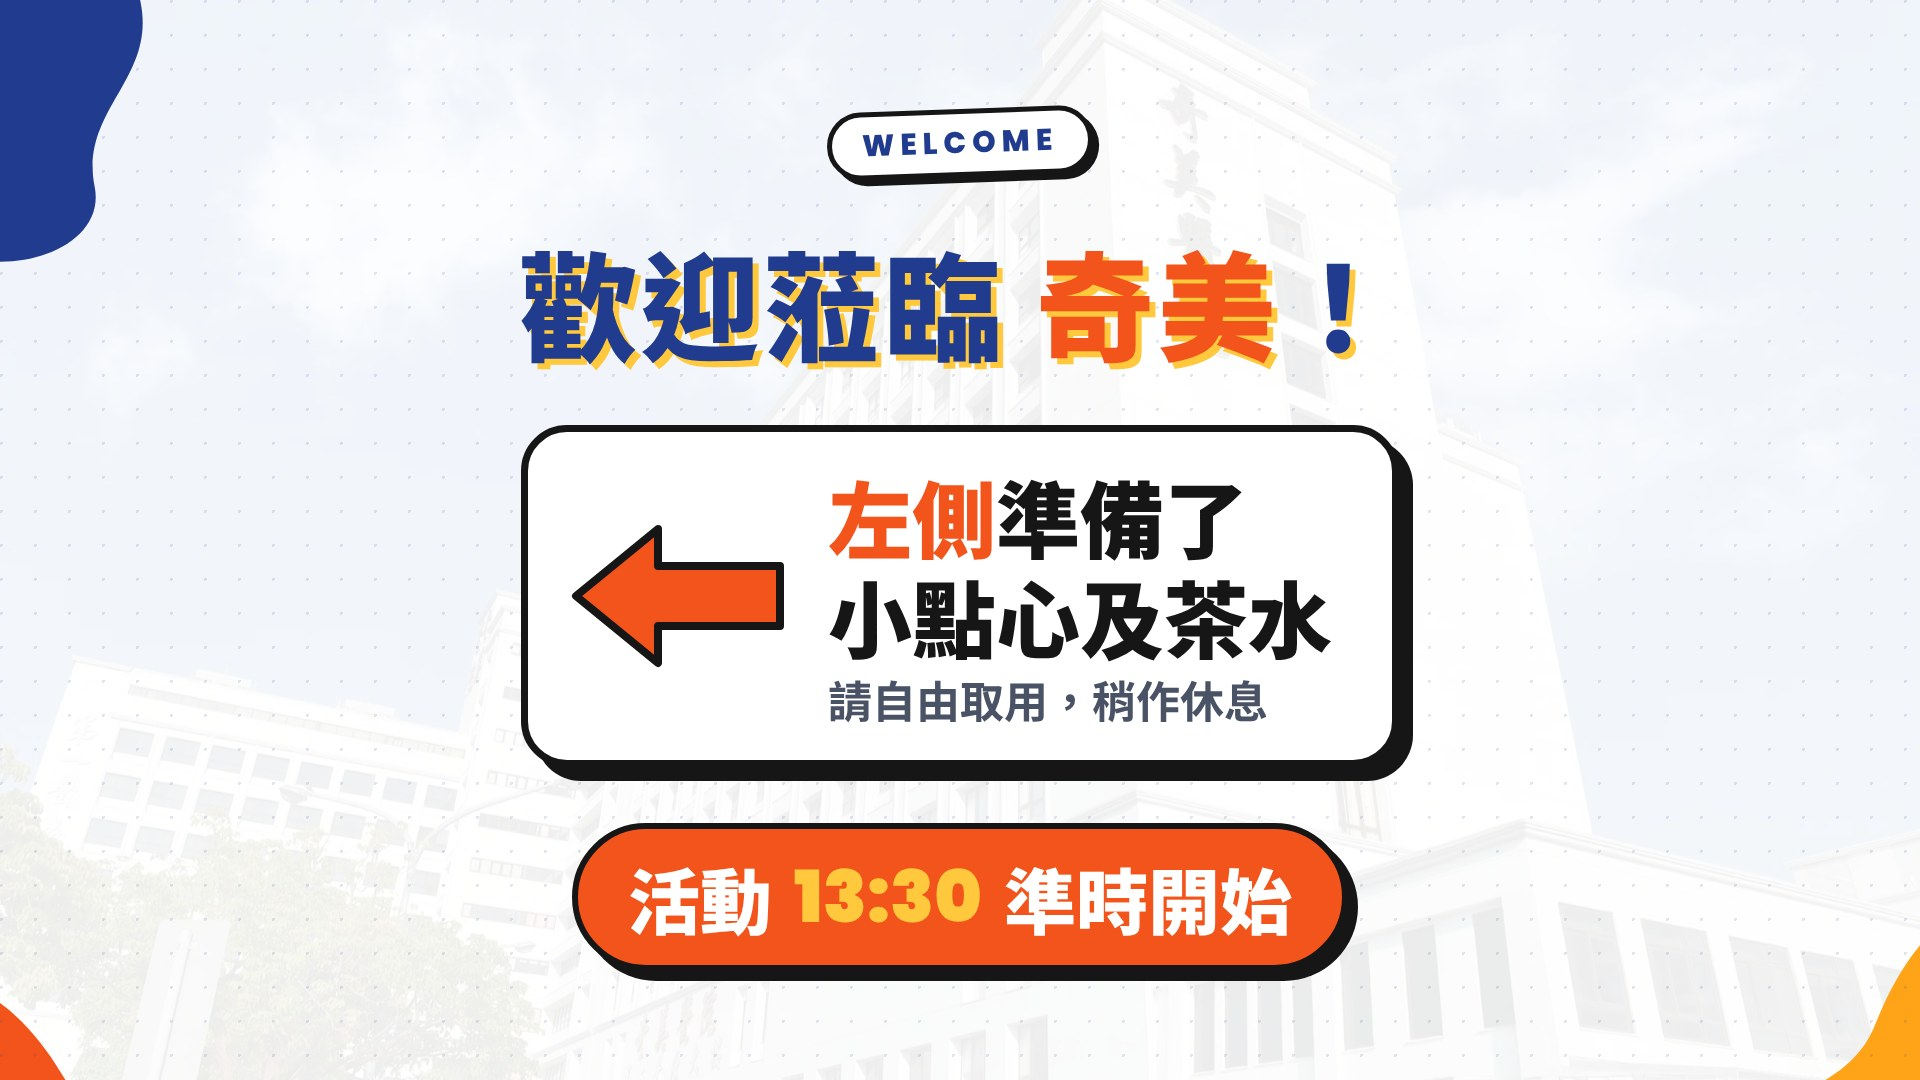
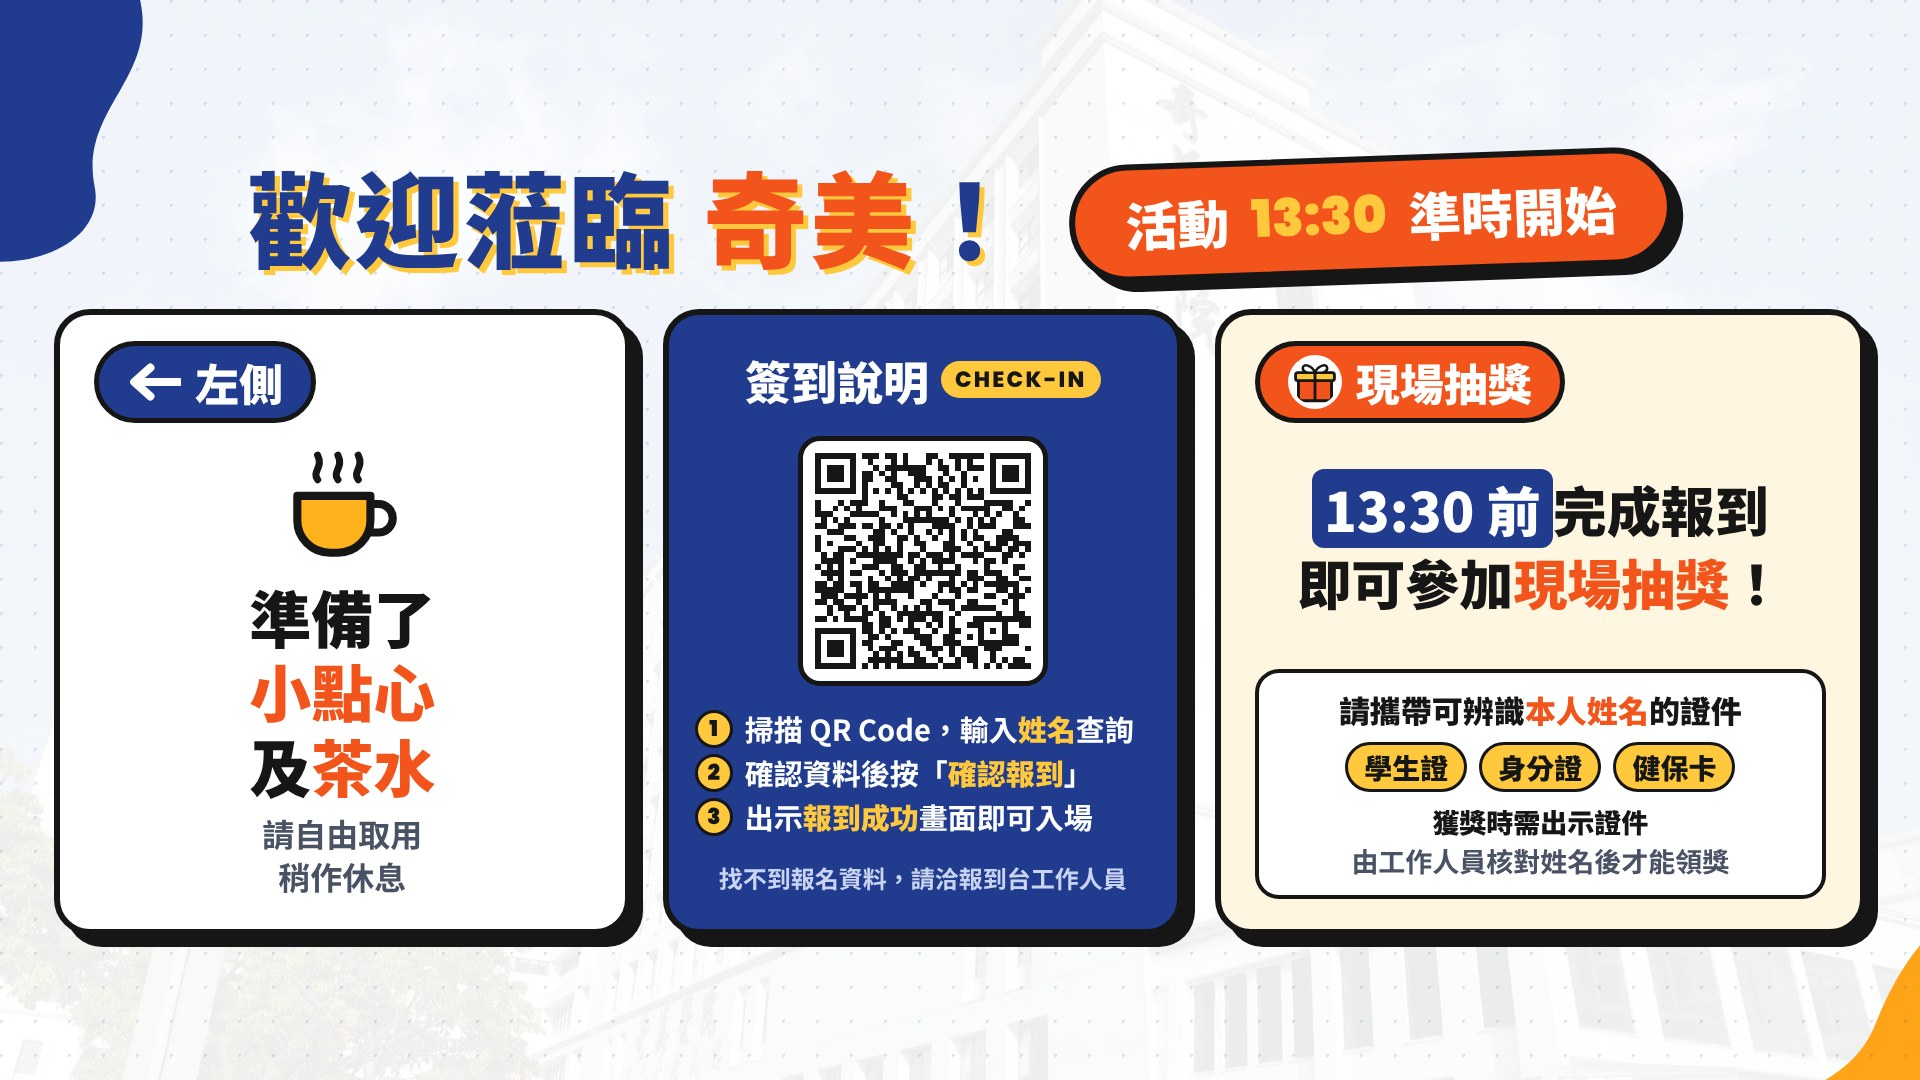
歌詞頁第 1 張圖：加入簽到說明、13:30 前報到可抽獎及證件提醒
Claude-Session: https://claude.ai/code/session_01HH3Uic7B7GKvdUspcu4Pwt

diff --git a/cmh_musiccc/photos/slides.html b/cmh_musiccc/photos/slides.html
@@ -38,14 +38,36 @@ h1 b{font-family:Poppins;font-weight:900}
 .room .no small{font-family:"Noto Sans TC";font-size:.75em;margin-left:2px}
 .room .tag{flex:none;width:30px;height:30px;border-radius:50%;background:var(--orange);border:4px solid var(--ink)}
 /* slide 1 */
-.s1{gap:56px}
-.s1 h1{font-size:118px}
-.s1 .left-card{display:flex;align-items:center;gap:40px;background:#fff;border:7px solid var(--ink);border-radius:46px;box-shadow:14px 14px 0 var(--ink);padding:34px 60px 34px 40px}
-.s1 .big-arrow{width:220px;height:150px;flex:none;animation:none}
-.s1 .left-card p{font-size:84px;font-weight:900;line-height:1.2}
-.s1 .left-card p small{display:block;font-size:44px;color:var(--muted);font-weight:700;margin-top:6px}
-.s1 .left-card p em{font-style:normal;color:var(--red)}
-.s1 .pill{font-size:72px}
+.s1{gap:34px;padding-top:10px}
+.s1-head{display:flex;align-items:center;gap:44px}
+.s1 h1{font-size:104px}
+.s1 .pill{font-size:52px;transform:rotate(-2deg)}
+.s1-row{display:flex;gap:32px;align-items:stretch;padding:0 54px;width:100%}
+.s1 .side{flex:1}
+.snack h3{font-size:44px}
+.snack-body{flex:1;display:flex;flex-direction:column;align-items:center;justify-content:center;text-align:center;gap:10px}
+.snack .cup{width:130px;height:130px}
+.snack-body p{font-size:62px;font-weight:900;line-height:1.2}
+.snack-body p em{font-style:normal;color:var(--red)}
+.snack-body small{font-size:32px;font-weight:700;color:var(--muted);line-height:1.35}
+.checkin{width:560px;justify-content:space-evenly}
+.checkin .help{font-size:24px;font-weight:700;color:#C9D3F2;text-align:center}
+.lottery{justify-content:space-between}
+.checkin .qrbox{width:250px}
+.checkin .steps li{font-size:29px}
+.lottery{flex:1.15!important;background:var(--band)!important}
+.lottery h3{font-size:44px;background:var(--red)!important;color:#fff}
+.lottery h3 svg{width:54px;height:54px;background:#fff;border-radius:50%;padding:4px}
+.lt-main{font-size:54px;font-weight:900;line-height:1.35;text-align:center;margin:auto 0}
+.lt-main b{color:#fff;background:var(--navy);border-radius:12px;padding:0 12px}
+.lt-main em{font-style:normal;color:var(--red)}
+.id{background:#fff;border:4px solid var(--ink);border-radius:24px;padding:14px 18px;text-align:center;display:flex;flex-direction:column;gap:10px}
+.id-h{font-size:31px;font-weight:900}
+.id-h b{color:var(--red)}
+.ids{display:flex;justify-content:center;gap:12px}
+.ids span{font-size:28px;font-weight:900;background:var(--yellow);border:3px solid var(--ink);border-radius:999px;padding:2px 16px}
+.id-n{font-size:27px;font-weight:700;color:var(--muted);line-height:1.45}
+.id-n b{color:var(--ink)}
 /* slide 2 */
 .s2{gap:40px}
 .s2 h1{font-size:120px}
@@ -85,14 +107,39 @@ h1 b{font-family:Poppins;font-weight:900}
 <section class="slide s1" id="s1">
   <svg class="blob bl-tl" viewBox="0 0 300 300"><path fill="#213C8F" d="M40 60c40-50 120-30 130 20s-40 70-30 120-90 70-120 20S0 110 40 60z"/></svg>
   <svg class="blob bl-br" viewBox="0 0 320 300"><path fill="#FFA319" d="M320 80c-60 0-90 40-110 90s-80 40-80 90 50 50 190 40z"/></svg>
-  <svg class="blob bl-bl" viewBox="0 0 320 300"><path fill="#F2541B" d="M0 120c50-30 100 10 130 60s70 50 60 100-160 30-190 20z"/></svg>
-  <p class="kicker">WELCOME</p>
-  <h1>歡迎蒞臨 <em>奇美</em>！</h1>
-  <div class="left-card">
-    <svg class="big-arrow"><use href="#bigL"/></svg>
-    <p><em>左側</em>準備了<br>小點心及茶水<small>請自由取用，稍作休息</small></p>
+  <div class="s1-head">
+    <h1>歡迎蒞臨 <em>奇美</em>！</h1>
+    <div class="pill">活動 <b>13:30</b> 準時開始</div>
   </div>
-  <div class="pill">活動 <b>13:30</b> 準時開始</div>
+  <div class="s1-row">
+    <div class="side snack">
+      <h3><svg><use href="#arL"/></svg>左側</h3>
+      <div class="snack-body">
+        <svg class="cup" viewBox="0 0 64 64"><path d="M10 28h36v12a16 16 0 0 1-16 16h-4a16 16 0 0 1-16-16z" fill="#FFB21C" stroke="#161616" stroke-width="4" stroke-linejoin="round"/><path d="M46 32h4a7 7 0 0 1 0 14h-6" fill="none" stroke="#161616" stroke-width="4"/><path d="M20 20c-3-4 3-6 0-12M30 20c-3-4 3-6 0-12M40 20c-3-4 3-6 0-12" fill="none" stroke="#161616" stroke-width="3.5" stroke-linecap="round"/></svg>
+        <p>準備了<br><em>小點心</em><br>及<em>茶水</em></p>
+        <small>請自由取用<br>稍作休息</small>
+      </div>
+    </div>
+    <div class="checkout checkin">
+      <h2>簽到說明 <small>CHECK-IN</small></h2>
+      <div class="qrbox"><svg class="qrsvg" aria-label="簽到頁 QR Code" role="img" xmlns="http://www.w3.org/2000/svg" viewBox="0 0 37 37" shape-rendering="crispEdges"><path fill="#ffffff" d="M0 0h37v37H0z"/><path stroke="#161616" d="M0 0.5h7m1 0h3m1 0h2m1 0h1m3 0h2m2 0h6m1 0h7M0 1.5h1m5 0h1m2 0h1m3 0h1m1 0h1m3 0h1m1 0h1m2 0h1m1 0h1m3 0h1m5 0h1M0 2.5h1m1 0h3m1 0h1m3 0h1m1 0h7m2 0h2m1 0h1m1 0h3m1 0h1m1 0h3m1 0h1M0 3.5h1m1 0h3m1 0h1m1 0h2m1 0h1m1 0h1m2 0h3m3 0h1m2 0h1m4 0h1m1 0h3m1 0h1M0 4.5h1m1 0h3m1 0h1m1 0h2m2 0h2m3 0h3m1 0h1m1 0h1m1 0h1m1 0h1m2 0h1m1 0h3m1 0h1M0 5.5h1m5 0h1m1 0h1m4 0h2m2 0h1m1 0h1m1 0h2m2 0h1m4 0h1m5 0h1M0 6.5h7m1 0h1m1 0h1m1 0h1m1 0h1m1 0h1m1 0h1m1 0h1m1 0h1m1 0h1m1 0h1m1 0h1m1 0h7M8 7.5h1m5 0h2m4 0h2m1 0h2m1 0h3M0 8.5h1m3 0h1m1 0h3m2 0h1m3 0h2m3 0h1m3 0h1m4 0h5m2 0h1M0 9.5h1m2 0h1m1 0h1m1 0h1m3 0h3m3 0h3m1 0h1m1 0h1m1 0h5m2 0h2m1 0h1M0 10.5h3m3 0h5m2 0h1m1 0h1m1 0h1m1 0h1m3 0h1m3 0h1m1 0h1m1 0h1m2 0h1M1 11.5h1m1 0h1m1 0h1m5 0h1m3 0h8m1 0h1m1 0h1m1 0h1m1 0h1m3 0h2M0 12.5h2m2 0h3m1 0h2m1 0h2m1 0h1m1 0h1m3 0h4m2 0h1m1 0h3m3 0h3M2 13.5h3m5 0h2m1 0h1m2 0h1m2 0h1m1 0h1m1 0h1m1 0h1m1 0h1m4 0h2M0 14.5h1m4 0h2m2 0h3m2 0h2m1 0h1m2 0h1m2 0h1m1 0h1m1 0h2m2 0h4M0 15.5h1m1 0h1m4 0h1m2 0h2m2 0h1m2 0h2m3 0h2m2 0h1m2 0h1m1 0h2m1 0h3M0 16.5h1m3 0h3m1 0h1m1 0h1m1 0h1m1 0h1m3 0h1m3 0h3m2 0h1m1 0h3m1 0h2m1 0h1M1 17.5h1m1 0h2m2 0h8m1 0h2m1 0h3m1 0h1m1 0h4m3 0h2m1 0h1M1 18.5h4m1 0h1m3 0h4m2 0h1m1 0h1m1 0h4m3 0h1m1 0h2m1 0h1M0 19.5h1m1 0h1m1 0h1m3 0h3m2 0h2m2 0h2m2 0h1m2 0h1m4 0h1m4 0h2M1 20.5h4m1 0h2m3 0h1m1 0h3m1 0h8m1 0h2m1 0h3m2 0h1M2 21.5h1m1 0h1m4 0h1m2 0h1m1 0h1m1 0h2m1 0h1m3 0h1m2 0h3m2 0h2m2 0h2M0 22.5h2m1 0h2m1 0h2m1 0h2m2 0h4m1 0h1m2 0h3m1 0h1m1 0h1m1 0h6M0 23.5h5m2 0h1m1 0h8m4 0h1m1 0h2m1 0h2m3 0h2m1 0h1m1 0h1M1 24.5h3m1 0h4m1 0h1m1 0h1m3 0h1m3 0h1m3 0h1m4 0h2m2 0h3M0 25.5h2m1 0h2m2 0h1m2 0h4m4 0h2m1 0h3m2 0h2m4 0h1m1 0h1M2 26.5h1m1 0h3m1 0h1m1 0h1m2 0h1m1 0h1m1 0h1m1 0h1m3 0h1m1 0h6m3 0h1M2 27.5h1m2 0h1m2 0h2m1 0h1m2 0h8m2 0h1m6 0h1m2 0h2M0 28.5h2m1 0h1m1 0h4m2 0h2m1 0h1m1 0h3m1 0h2m1 0h1m3 0h10M8 29.5h2m1 0h2m3 0h1m2 0h1m1 0h1m1 0h1m2 0h3m3 0h1m2 0h2M0 30.5h7m1 0h2m1 0h1m1 0h1m1 0h3m2 0h1m2 0h2m3 0h1m1 0h1m1 0h1M0 31.5h1m5 0h1m2 0h2m1 0h1m4 0h3m2 0h2m2 0h1m1 0h1m3 0h3M0 32.5h1m1 0h3m1 0h1m1 0h2m3 0h2m3 0h2m2 0h3m3 0h7M0 33.5h1m1 0h3m1 0h1m2 0h1m1 0h3m2 0h1m2 0h3m1 0h1m1 0h3m1 0h3m4 0h1M0 34.5h1m1 0h3m1 0h1m3 0h1m1 0h1m1 0h1m1 0h2m2 0h1m2 0h1m1 0h3m2 0h1M0 35.5h1m5 0h1m2 0h6m2 0h2m2 0h1m2 0h1m1 0h2m2 0h1m1 0h1m1 0h2M0 36.5h7m1 0h1m1 0h1m1 0h1m1 0h7m1 0h3m2 0h1m1 0h1m1 0h1m1 0h4"/></svg></div>
+      <ol class="steps">
+        <li><i>1</i><span>掃描 QR Code，輸入<b>姓名</b>查詢</span></li>
+        <li><i>2</i><span>確認資料後按「<b>確認報到</b>」</span></li>
+        <li><i>3</i><span>出示<b>報到成功</b>畫面即可入場</span></li>
+      </ol>
+      <p class="help">找不到報名資料，請洽報到台工作人員</p>
+    </div>
+    <div class="side lottery">
+      <h3><svg viewBox="0 0 64 64"><rect x="9" y="28" width="46" height="30" rx="4" fill="#F2541B" stroke="#161616" stroke-width="4"/><rect x="5" y="19" width="54" height="11" rx="3" fill="#FFC83D" stroke="#161616" stroke-width="4"/><path d="M32 19v39" stroke="#161616" stroke-width="4"/><path d="M32 19c-4-10-17-14-17-6s13 6 17 6zM32 19c4-10 17-14 17-6s-13 6-17 6z" fill="#fff" stroke="#161616" stroke-width="3.5" stroke-linejoin="round"/></svg>現場抽獎</h3>
+      <p class="lt-main"><b>13:30 前</b>完成報到<br>即可參加<em>現場抽獎</em>！</p>
+      <div class="id">
+        <p class="id-h">請攜帶可辨識<b>本人姓名</b>的證件</p>
+        <div class="ids"><span>學生證</span><span>身分證</span><span>健保卡</span></div>
+        <p class="id-n"><b>獲獎時需出示證件</b><br>由工作人員核對姓名後才能領獎</p>
+      </div>
+    </div>
+  </div>
 </section>
 
 <!-- ============ 2 ============ -->
